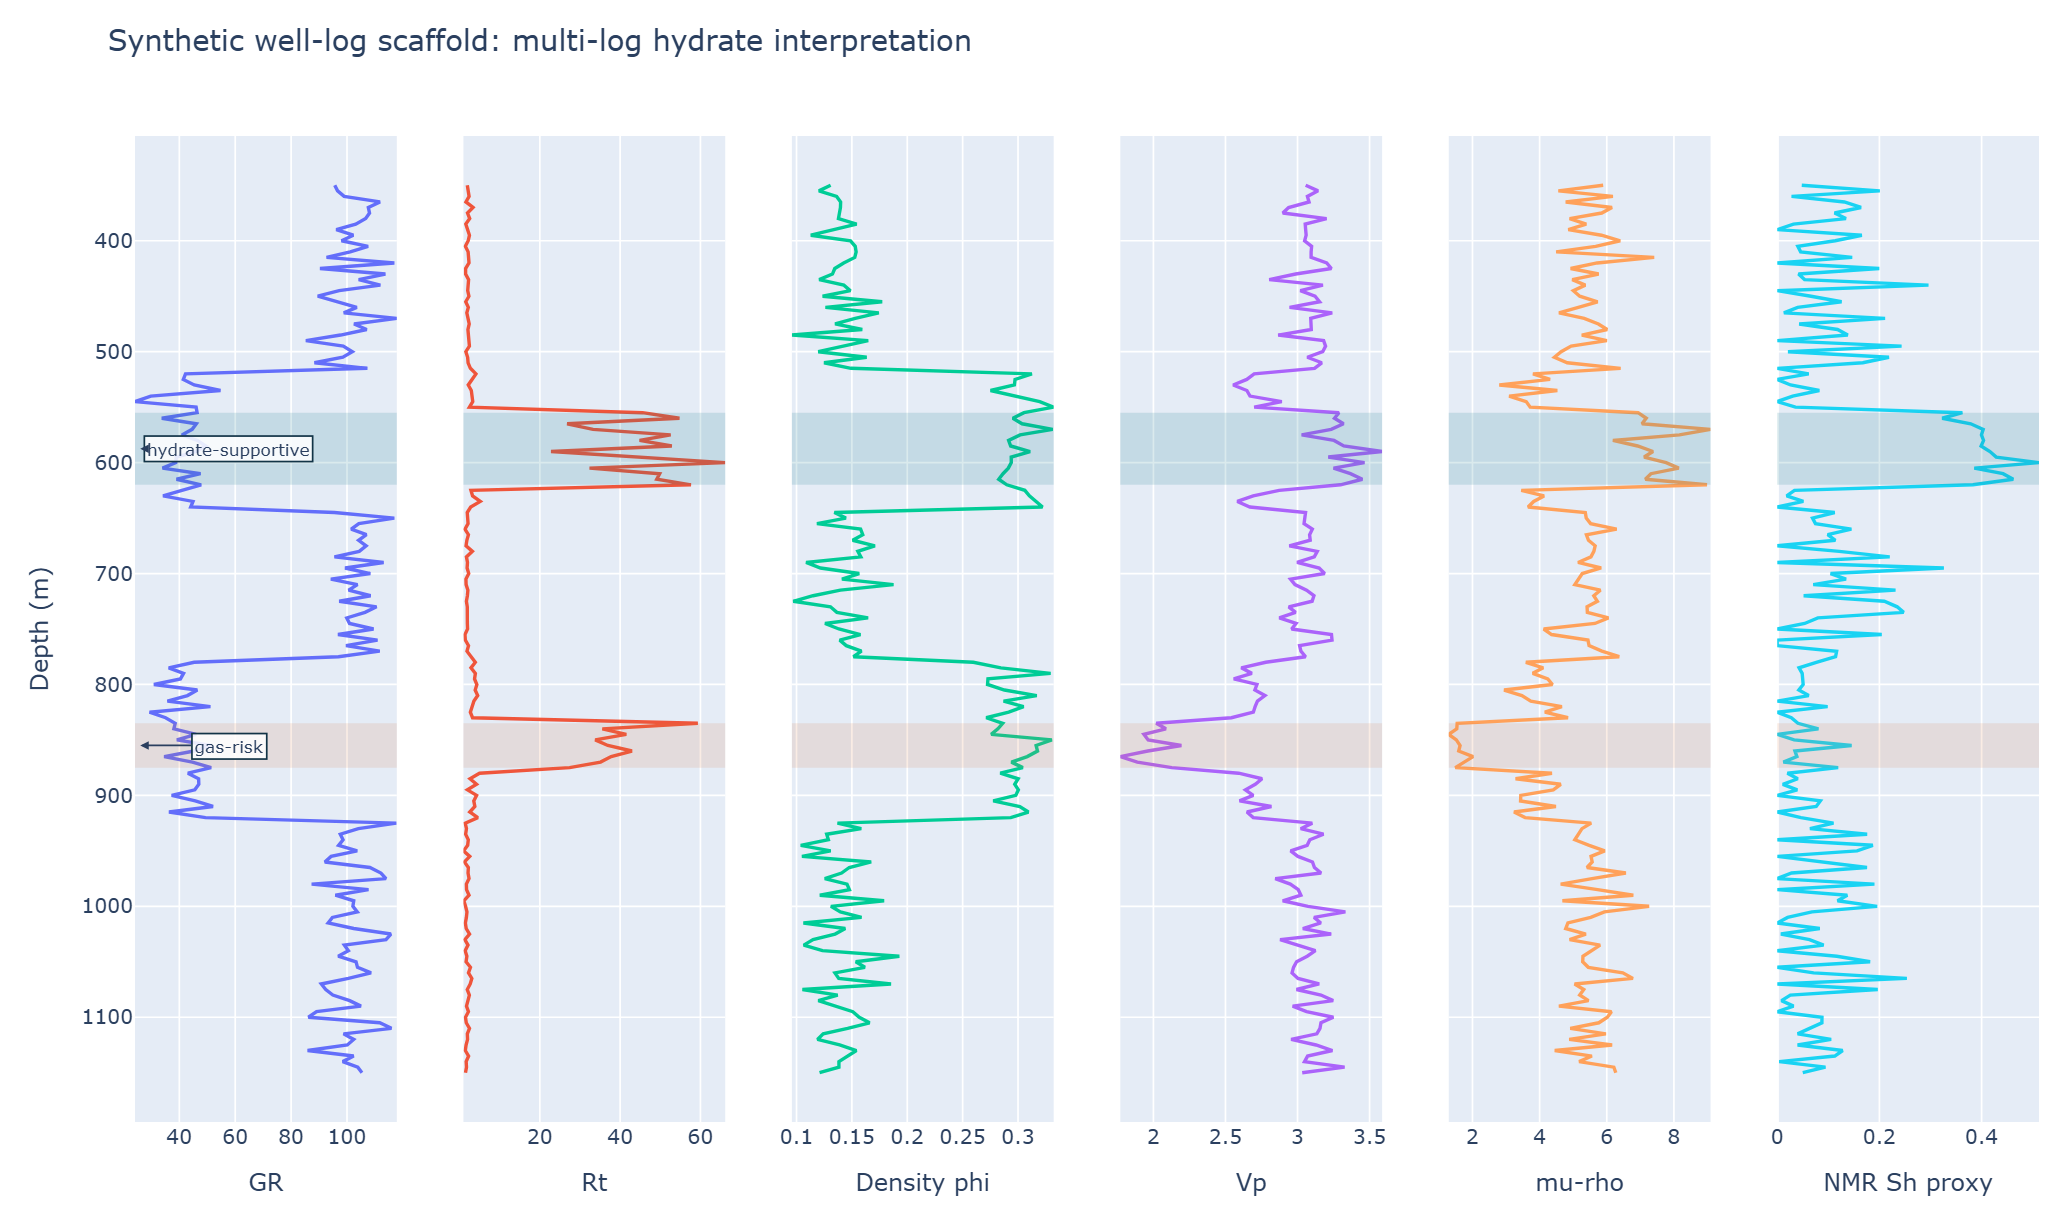
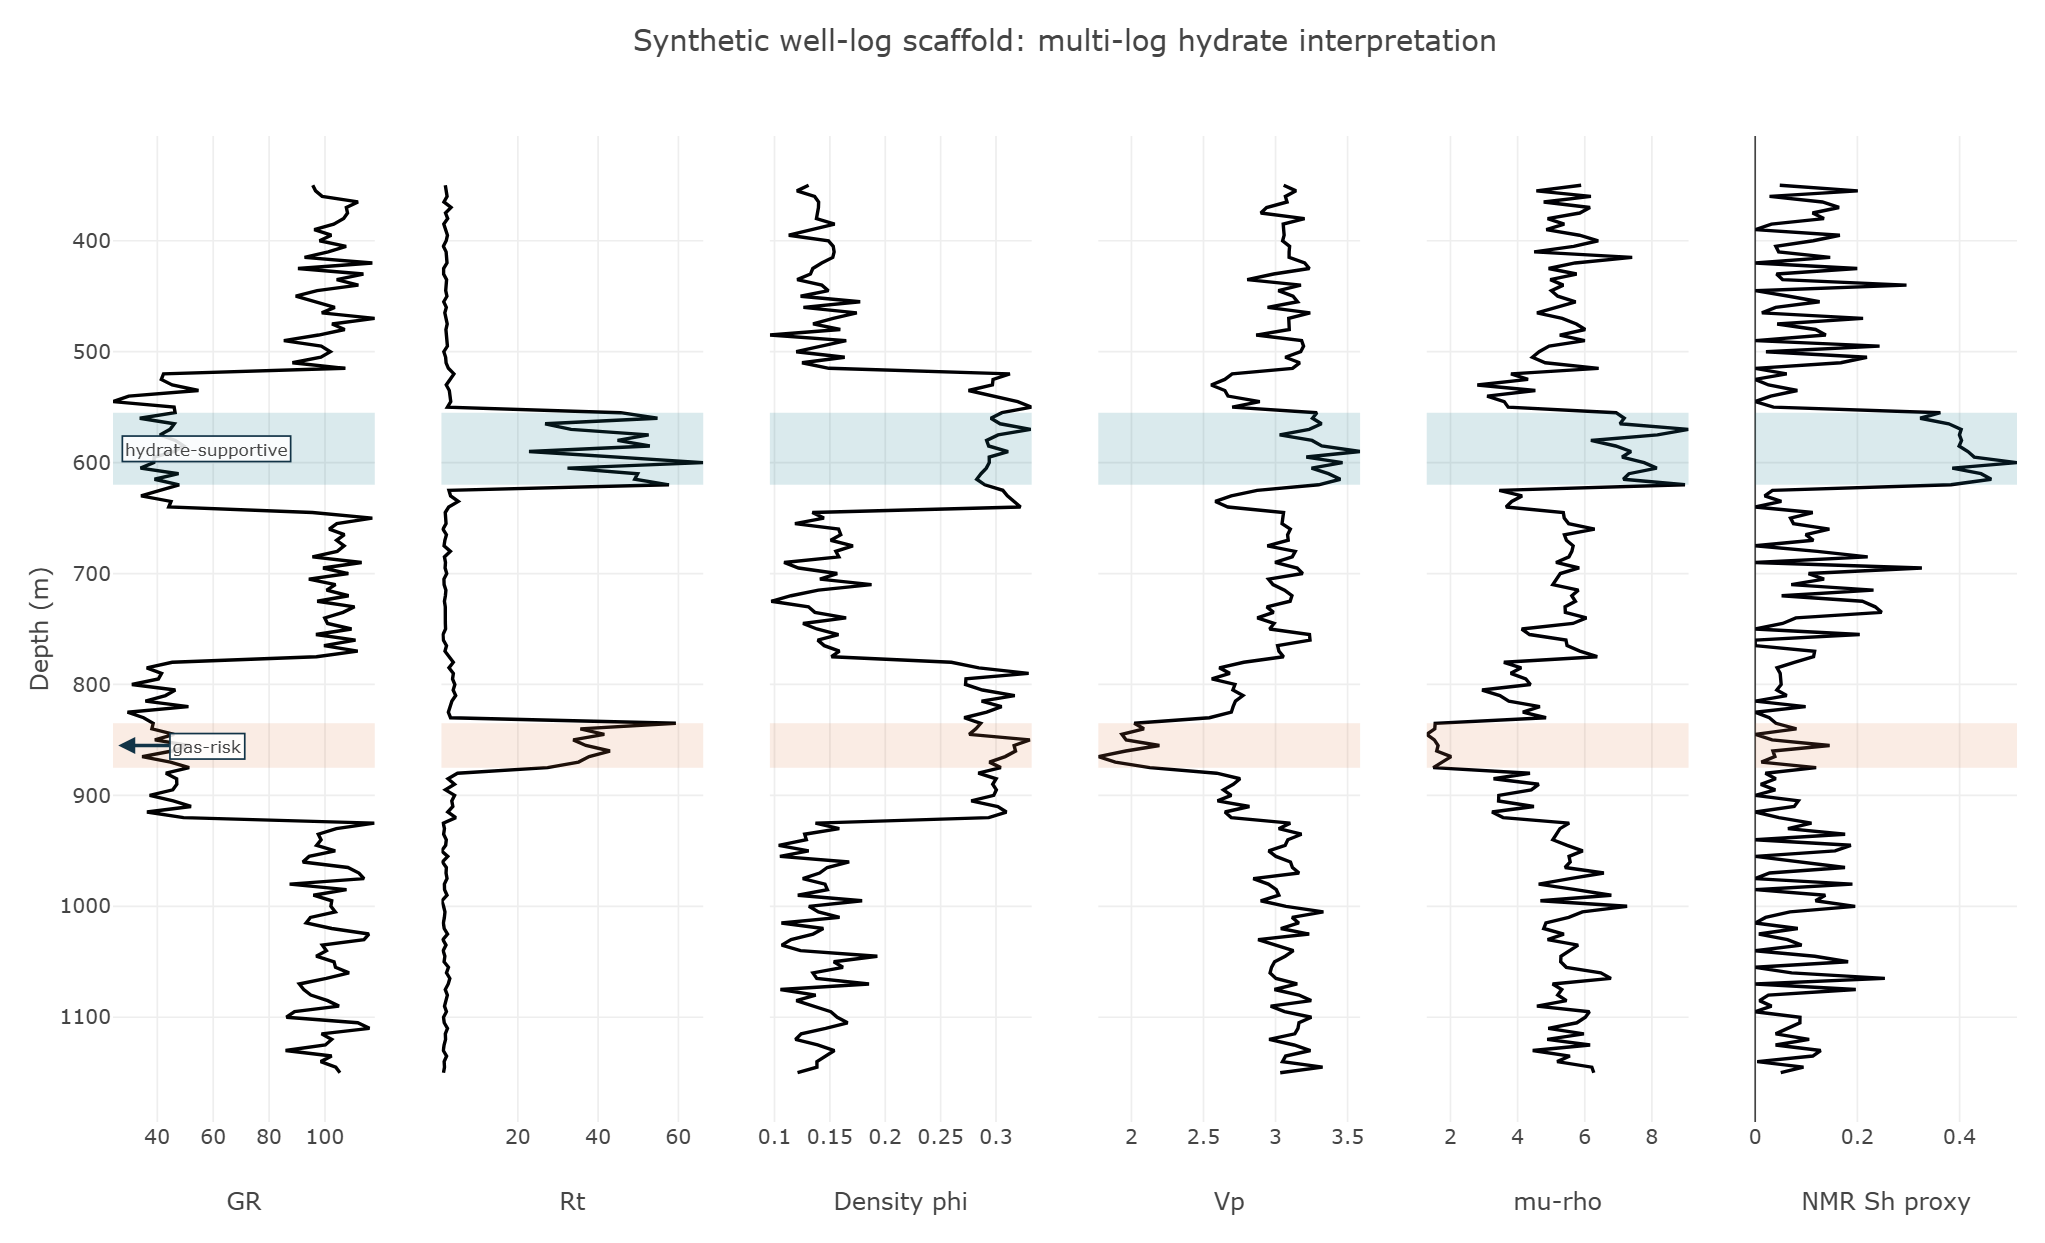
Strengthen hydrate ML presentation

diff --git a/docs/project_blueprints/build_research_overview_deliverables.py b/docs/project_blueprints/build_research_overview_deliverables.py
@@ -30,12 +30,14 @@ from dashboard.well_log_engine import (
     sweet_spot_review_table,
     well_log_panel,
 )
+from dashboard.app import build_geographic_structural_figure
 OUT_DIR = REPO_ROOT / "docs" / "project_blueprints"
 DOCX_OUT = OUT_DIR / "North_Slope_Gas_Hydrate_Reservoir_Characterization_Research_Overview.docx"
 PPTX_OUT = OUT_DIR / "North_Slope_Gas_Hydrate_Reservoir_Characterization_Research_Overview.pptx"
 ASSET_DIR = OUT_DIR / "presentation_assets"
 MASTER_3D = REPO_ROOT / "03_data_final" / "master_layers" / "north_slope_master_3d_surfaces.parquet"
 MASTER_2D = REPO_ROOT / "03_data_final" / "master_layers" / "north_slope_master_2d_layers.parquet"
+STREAMLIT_URL = "https://north-slope-gas-hydrates-vj67xkke9ksfzveon8ldt2.streamlit.app/"
 
 NAVY = "123447"
 TEAL = "167D8D"
@@ -85,57 +87,33 @@ def project_asset_path(name: str) -> Path:
 
 
 def build_regional_3d_asset() -> Path:
-    surfaces = pd.read_parquet(
-        MASTER_3D,
-        columns=["lon", "lat", "depth_m", "surface_name"],
+    figure = build_geographic_structural_figure(
+        ["NStopo", "NSLCU", "NSshublik", "NSbasement"],
+        1800,
+        [
+            "North Slope study-area boundary",
+            "Assessment-unit outlines",
+            "North Slope public wells",
+        ],
     )
-    wells = pd.read_parquet(
-        MASTER_2D,
-        columns=["layer_name", "lon", "lat", "depth_m"],
-    )
-    wells = wells[wells["layer_name"] == "wells"].dropna(subset=["lon", "lat"]).head(450)
-
-    figure = go.Figure()
-    colors = {"NStopo": "#3F8E54", "NSLCU": "#2878B5", "NSshublik": "#D9773D", "NSbasement": "#7353A4"}
-    for surface_name in ["NStopo", "NSLCU", "NSshublik", "NSbasement"]:
-        subset = surfaces[surfaces["surface_name"] == surface_name].dropna()
-        if subset.empty:
-            continue
-        subset = subset.iloc[:: max(1, len(subset) // 1800)]
-        figure.add_trace(
-            go.Scatter3d(
-                x=subset["lon"],
-                y=subset["lat"],
-                z=-subset["depth_m"],
-                mode="markers",
-                marker={"size": 2.2, "color": colors[surface_name], "opacity": 0.62},
-                name=surface_name,
-            )
-        )
-    figure.add_trace(
-        go.Scatter3d(
-            x=wells["lon"],
-            y=wells["lat"],
-            z=[120] * len(wells),
-            mode="markers",
-            marker={"size": 2.8, "color": "#0B1F2A", "opacity": 0.85},
-            name="public wells",
-        )
-    )
+    figure.update_traces(selector={"type": "surface"}, opacity=0.66)
     figure.update_layout(
-        title="Public North Slope structural context and well inventory",
+        title="Current Streamlit structural explorer view: public wells, boundaries, and horizons",
         paper_bgcolor="white",
         plot_bgcolor="white",
-        margin={"l": 0, "r": 0, "t": 52, "b": 0},
-        legend={"orientation": "h", "y": 0.02, "x": 0.02},
+        margin={"l": 0, "r": 0, "t": 58, "b": 0},
+        legend={"orientation": "h", "y": 1.02, "x": 0.0},
         scene={
             "xaxis_title": "Longitude",
             "yaxis_title": "Latitude",
-            "zaxis_title": "Relative depth",
+            "zaxis_title": "Depth (m)",
+            "zaxis": {"autorange": "reversed"},
+            "aspectmode": "manual",
+            "aspectratio": {"x": 1.8, "y": 1, "z": 0.55},
             "camera": {"eye": {"x": 1.55, "y": -1.7, "z": 0.85}},
         },
     )
-    return export_plotly(figure, project_asset_path("regional_3d_context.png"), 1280, 760)
+    return export_plotly(figure, project_asset_path("streamlit_3d_context_v2.png"), 1400, 820)
 
 
 def build_well_log_asset(logs: pd.DataFrame) -> Path:
@@ -453,6 +431,23 @@ def add_textbox(slide, x, y, w, h, text, size=18, bold=False, color=INK, align=P
     return box
 
 
+def add_link_textbox(slide, x, y, w, h, text, url, size=11.5):
+    box = slide.shapes.add_textbox(PptInches(x), PptInches(y), PptInches(w), PptInches(h))
+    frame = box.text_frame
+    frame.clear()
+    frame.margin_left = PptInches(0.06)
+    frame.margin_right = PptInches(0.06)
+    p = frame.paragraphs[0]
+    run = p.add_run()
+    run.text = text
+    run.font.name = "Aptos"
+    run.font.size = PptPt(size)
+    run.font.bold = True
+    run.font.color.rgb = ppt_color(TEAL)
+    run.hyperlink.address = url
+    return box
+
+
 def add_title(slide, title, subtitle=None):
     add_textbox(slide, 0.55, 0.24, 12.1, 0.45, title, size=24, bold=True, color=NAVY)
     if subtitle:
@@ -560,22 +555,30 @@ def build_pptx() -> None:
     add_footer(slide, "Sources: recovered header screenshots; project Q&A update; Lee and Collett 2011; Haines et al. 2022")
 
     slide = prs.slides.add_slide(blank)
-    add_title(slide, "ML Methodology: Architecture", "Workflow adapted from gas-hydrate ML literature and approved-data constraints")
-    add_flow(slide, ["raw logs", "QC", "features", "labels", "models", "validation"], x=0.85, y=1.25, box_w=1.55)
-    add_label(slide, 0.95, 2.7, 3.1, 1.35, "Data processing", "Remove outliers, select depth intervals, align logs and core, and standardize units.", SAND)
-    add_label(slide, 4.35, 2.7, 3.1, 1.35, "Modeling", "Compare rules, linear baselines, tree models, and Keras/ANN saturation models.")
-    add_label(slide, 7.75, 2.7, 3.1, 1.35, "Validation", "Use complete-well holdouts and compare predictions against core and interpreted measurements.")
-    add_image(slide, assets["metrics"], 2.0, 4.45, 9.45, 1.65)
-    add_footer(slide, "Source anchor: Chong et al. 2022; project runtime requirements map.")
+    add_title(slide, "ML Methodology: Architecture", "ANN paper logic adapted into a leakage-controlled well-log workflow")
+    add_label(slide, 0.75, 1.18, 2.35, 0.9, "Chong et al. anchor", "5 permafrost wells\n>10,000 depth points\nNMR-derived Sh target", SAND)
+    add_label(slide, 3.45, 1.18, 2.35, 0.9, "Input log families", "density, porosity, Rt, GR,\nVp and Vs candidates", ICE)
+    add_label(slide, 6.15, 1.18, 2.35, 0.9, "Project target control", "NMR/core saturation is a label,\nnot an input when target-derived", ICE)
+    add_label(slide, 8.85, 1.18, 2.35, 0.9, "Validation upgrade", "complete-well holdout\ninstead of random depth rows", SAND)
+    add_flow(slide, ["approved logs", "QC", "feature sets", "model ladder", "held-out wells", "outputs"], x=0.75, y=2.48, box_w=1.55)
+    add_label(slide, 0.75, 3.75, 2.95, 1.15, "1. QC and alignment", "Caliper washout, depth matching, missing-curve routing, unit standardization, multivariate outlier review.", SAND)
+    add_label(slide, 3.95, 3.75, 2.95, 1.15, "2. Physics features", "Separate measured logs, derived elastic/geomechanical features, and target-derived saturation fields.")
+    add_label(slide, 7.15, 3.75, 2.95, 1.15, "3. Model ladder", "Rules and linear baselines first; tree/GBM for feature behavior; ANN/Keras for nonlinear saturation response.")
+    add_label(slide, 10.35, 3.75, 2.2, 1.15, "4. Outputs", "Occurrence class\nSh regression\nuncertainty flags", ICE)
+    add_image(slide, assets["metrics"], 2.25, 5.33, 8.8, 1.18)
+    add_footer(slide, "Source anchor: Chong et al. 2022, DOI: 10.1007/s10596-022-10151-9; project runtime requirements map.")
 
     slide = prs.slides.add_slide(blank)
-    add_title(slide, "ML Methodology: Why These Parameters", "Classification and regression need different evidence")
-    add_image(slide, assets["sweet_spot"], 6.45, 1.15, 5.95, 3.0)
-    add_label(slide, 0.8, 1.28, 5.0, 1.0, "Classification", "Predict hydrate occurrence or phase class using lithology, resistivity, elastic, NMR, and QC context.", SAND)
-    add_label(slide, 0.8, 2.62, 5.0, 1.0, "Regression", "Predict continuous hydrate saturation from calibrated logs, NMR-derived or core-calibrated targets, and physics features.")
-    add_label(slide, 0.8, 3.96, 5.0, 1.0, "Linear vs nonlinear", "Linear baselines show traceable relationships; nonlinear models test interactions among reservoir, electrical, elastic, and NMR evidence.")
-    add_label(slide, 6.65, 4.62, 5.55, 0.92, "Website ranking logic", "The sweet-spot ranking is an explainable scaffold, not a final result until approved data are run.", ICE)
-    add_footer(slide)
+    add_title(slide, "ML Methodology: Why This Architecture Fits Well Logs", "Depth-indexed curves need both explainable baselines and nonlinear models")
+    add_image(slide, assets["sweet_spot"], 7.0, 1.18, 5.35, 2.65)
+    add_label(slide, 0.75, 1.25, 2.75, 1.0, "Classification branch", "Detect hydrate-supportive intervals or phase classes from multi-log agreement, lithology, and QC context.", SAND)
+    add_label(slide, 3.75, 1.25, 2.75, 1.0, "Regression branch", "Estimate continuous hydrate saturation only from allowed predictors and calibrated targets.")
+    add_label(slide, 0.75, 2.68, 2.75, 1.0, "Linear baseline", "Shows defensible directionality and exposes whether a simple relation is already sufficient.")
+    add_label(slide, 3.75, 2.68, 2.75, 1.0, "Tree/GBM test", "Handles missingness and ranks feature importance without forcing a single curve relationship.", ICE)
+    add_label(slide, 0.75, 4.1, 2.75, 1.0, "ANN/Keras test", "Best fit for nonlinear interactions among Rt, porosity, density, Vp, Vs, GR, and NMR-supported targets.", ICE)
+    add_label(slide, 3.75, 4.1, 2.75, 1.0, "Guardrail", "Do not train on Sgh, phase labels, rankings, or NMR-derived target columns as inputs.", SAND)
+    add_label(slide, 7.05, 4.35, 5.3, 1.0, "Decision logic", "Use the ANN only if it improves held-out-well performance beyond explainable baselines and stays geologically reasonable.")
+    add_footer(slide, "Sources: Chong et al. 2022; USGS/NETL hydrate well-log studies; project target-leakage rules.")
 
     slide = prs.slides.add_slide(blank)
     add_title(slide, "Geomechanical Feature Sketch", "Rock-physics parameters help evaluate hydrate-consistent stiffness")
@@ -592,11 +595,12 @@ def build_pptx() -> None:
     add_footer(slide, "Source anchor: project geomechanics screenshots and local equation-map documents.")
 
     slide = prs.slides.add_slide(blank)
-    add_title(slide, "3D Map and Well Context", "Regional context constrains interpretation but does not replace log evidence")
+    add_title(slide, "3D Map and Well Context", "Current Streamlit structural explorer view with a live-map link")
     add_image(slide, assets["regional_3d"], 0.75, 1.05, 7.35, 4.7)
     add_label(slide, 8.45, 1.35, 3.75, 1.2, "Map use", "Show well positions, structural context, data coverage, and candidate intervals.", SAND)
-    add_label(slide, 8.45, 3.05, 3.75, 1.2, "Boundary", "Public deck can show synthetic/public context; approved well identifiers and results stay in the authorized runtime.")
-    add_label(slide, 8.45, 4.75, 3.75, 0.8, "OpenScienceLab step", "Ready to replace this with approved-environment map output when you push/run there.", ICE)
+    add_label(slide, 8.45, 3.0, 3.75, 1.05, "Live interaction", "Google Slides stores a static image; use the linked Streamlit app for rotation, zoom, and layer toggles.")
+    add_link_textbox(slide, 8.55, 4.2, 3.55, 0.3, "Open live Streamlit 3D explorer", STREAMLIT_URL)
+    add_label(slide, 8.45, 4.82, 3.75, 0.82, "Data boundary", "Public map uses regional/public layers; approved well results stay runtime-only.", ICE)
     add_footer(slide, "Source anchor: project GIS atlas and future approved-runtime outputs.")
 
     slide = prs.slides.add_slide(blank)

diff --git a/dashboard/runtime/schemas.py b/dashboard/runtime/schemas.py
@@ -51,7 +51,7 @@ TARGET_LABEL_CONTRACT = (
     {
         "Target": "Hydrate saturation regression",
         "Preferred source": "Supplied or core-calibrated hydrate saturation from known wells",
-        "Alternatives": "Documented multi-method interpreted saturation; NMR only if unexpectedly available",
+        "Alternatives": "Documented multi-method interpreted saturation; NMR-density saturation where available",
         "Do not use as inputs": "Any saturation target, interpreted class, or target-derived column",
         "Status before workbook": "Required; exact source unconfirmed",
     },
@@ -75,7 +75,7 @@ PROJECT_COHORT_ASSUMPTIONS = {
     "Estimated total wells": 71,
     "Known development fraction": 0.20,
     "Prediction fraction": 0.80,
-    "Expected NMR": "No",
+    "Expected NMR": "Yes",
     "Primary outputs": "Phase classification and continuous hydrate saturation",
     "Feature strategy": "Normalized multivariable logs and physics-derived features; transformations fit on training wells only and weights learned or calibrated, not assumed",
 }

diff --git a/tests/test_runtime_skeleton.py b/tests/test_runtime_skeleton.py
@@ -144,7 +144,7 @@ def test_project_cohort_plan_uses_known_wells_for_development_and_rest_for_predi
     assert plan.loc[
         plan["Cohort"].str.startswith("Development"), "Approximate wells"
     ].sum() == 14
-    assert PROJECT_COHORT_ASSUMPTIONS["Expected NMR"] == "No"
+    assert PROJECT_COHORT_ASSUMPTIONS["Expected NMR"] == "Yes"
     assert "classification and continuous hydrate saturation" in PROJECT_COHORT_ASSUMPTIONS[
         "Primary outputs"
     ].lower()

diff --git a/PROJECT_CONTEXT.md b/PROJECT_CONTEXT.md
@@ -237,3 +237,7 @@ blockers, and next activities in the architecture/activity map.
 - 2026-06-09: Upgraded the nine-slide deck with embedded project visuals from
   the website/scaffold, including a 3D regional context image, synthetic
   well-log panel, ML validation placeholder, and sweet-spot ranking graphic.
+- 2026-06-09: Strengthened the live Google Slides deck and reproducible PPTX
+  with Chong et al. ANN architecture context, classification/regression
+  branches, target-leakage guardrails, complete-well validation, and the current
+  Streamlit Structural Explorer 3D map asset plus live-app link.

diff --git a/docs/project_blueprints/README.md b/docs/project_blueprints/README.md
@@ -24,6 +24,10 @@ wireline machine-learning project.
     instructions.
   - Current version embeds generated website/scaffold visuals from
     `presentation_assets/`.
+  - The ML-methodology slides now explain the Chong et al. ANN source paper,
+    the project-specific classification/regression split, target-leakage
+    guardrails, and complete-well validation. The map slide uses the current
+    Streamlit Structural Explorer asset and links to the live app.
 - `build_research_overview_deliverables.py`
   - Reproducible builder for the new Word and PowerPoint deliverables.
 

diff --git a/docs/PROJECT_ARCHITECTURE_AND_ACTIVITY_MAP.md b/docs/PROJECT_ARCHITECTURE_AND_ACTIVITY_MAP.md
@@ -96,7 +96,7 @@ The public website must never load authorized runtime data.
 | W7 | Scientific alignment | Partial | Reconcile equations and interpretation rules across code, manuscript, and presentation | W1, W3, W5 | No material scientific contradictions remain |
 | W8 | Git and project stabilization | Complete | Keep local `main` synchronized with `origin/main` and preserve focused commits | None | Clean history, remote, and documented workflow |
 | W9 | Authorized-data execution | Future | Configure approved runtime and run real-data validation only in the authorized environment | W5, authorization | Reproducible authorized outputs exist |
-| W10 | Word and PowerPoint deliverables | In progress | Research-overview Word and nine-slide PowerPoint were revised from the user's emailed instructions and upgraded with project visual assets; next replace the about-me placeholder and later approved-data figures when available | W3, W5, W7 | Both deliverables use the verified workflow, figures, terminology, and validation plan |
+| W10 | Word and PowerPoint deliverables | In progress | Research-overview Word and nine-slide PowerPoint were revised from the user's emailed instructions, upgraded with project visual assets, and further strengthened with Chong et al. ANN architecture context, model-branch logic, leakage guardrails, and the current Streamlit 3D map link; next replace the about-me placeholder and later approved-data figures when available | W3, W5, W7 | Both deliverables use the verified workflow, figures, terminology, and validation plan |
 
 Status vocabulary: `Ready`, `In progress`, `Waiting`, `Blocked`, `Partial`,
 `Complete`, or `Future`.
@@ -195,3 +195,4 @@ eight-slide visual presentation.
 | 2026-06-09 | Updated NMR availability and regenerated deliverables | Recorded that NMR and all screenshot-listed fields are available; created a crisp research-overview Word document and eight-slide PowerPoint |
 | 2026-06-09 | Revised deliverables from emailed instructions | Word now fills abstract/introduction and leaves later sections as outline placeholders with process sketches; PowerPoint now uses the requested nine-slide structure |
 | 2026-06-09 | Embedded website visuals into the PowerPoint | Added generated 3D regional context, synthetic well-log panel, ML validation placeholder, and sweet-spot ranking images to the nine-slide deck |
+| 2026-06-09 | Strengthened the ML architecture and map slides | Updated the live Google Slides deck and reproducible PPTX with Chong et al. ANN source-paper context, classification/regression branches, target-leakage guardrails, complete-well validation, and a refreshed Streamlit Structural Explorer 3D map image with a live-app link |